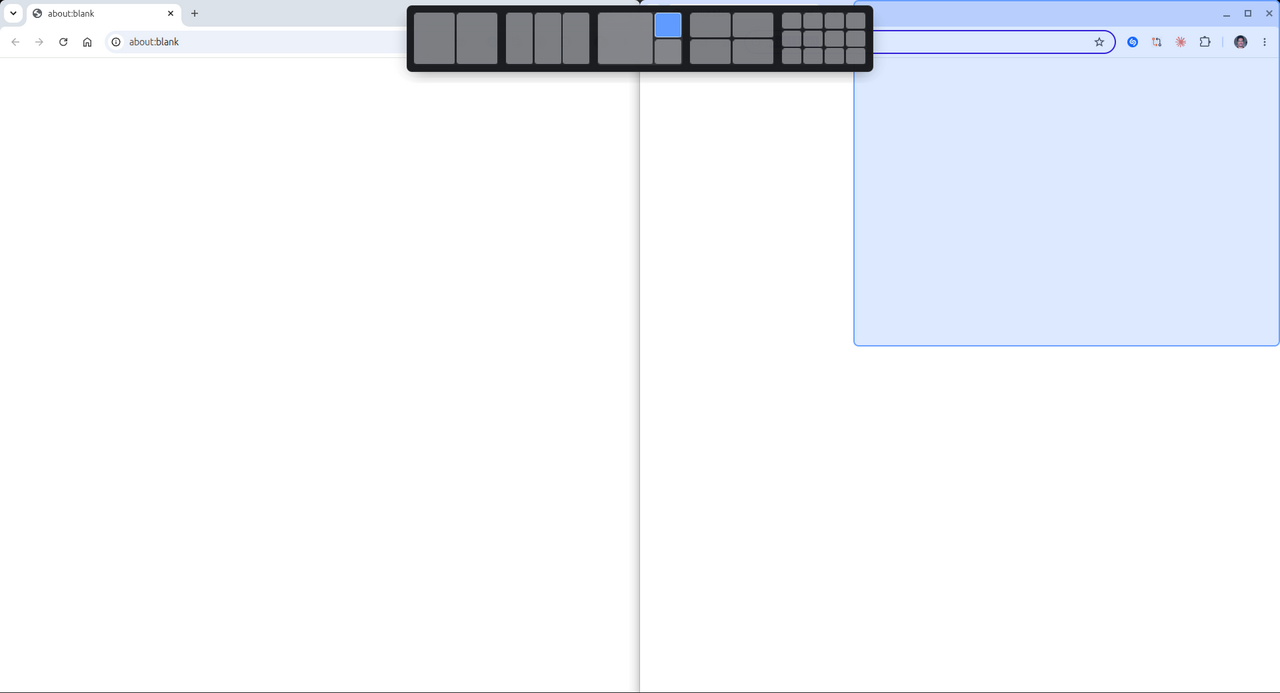
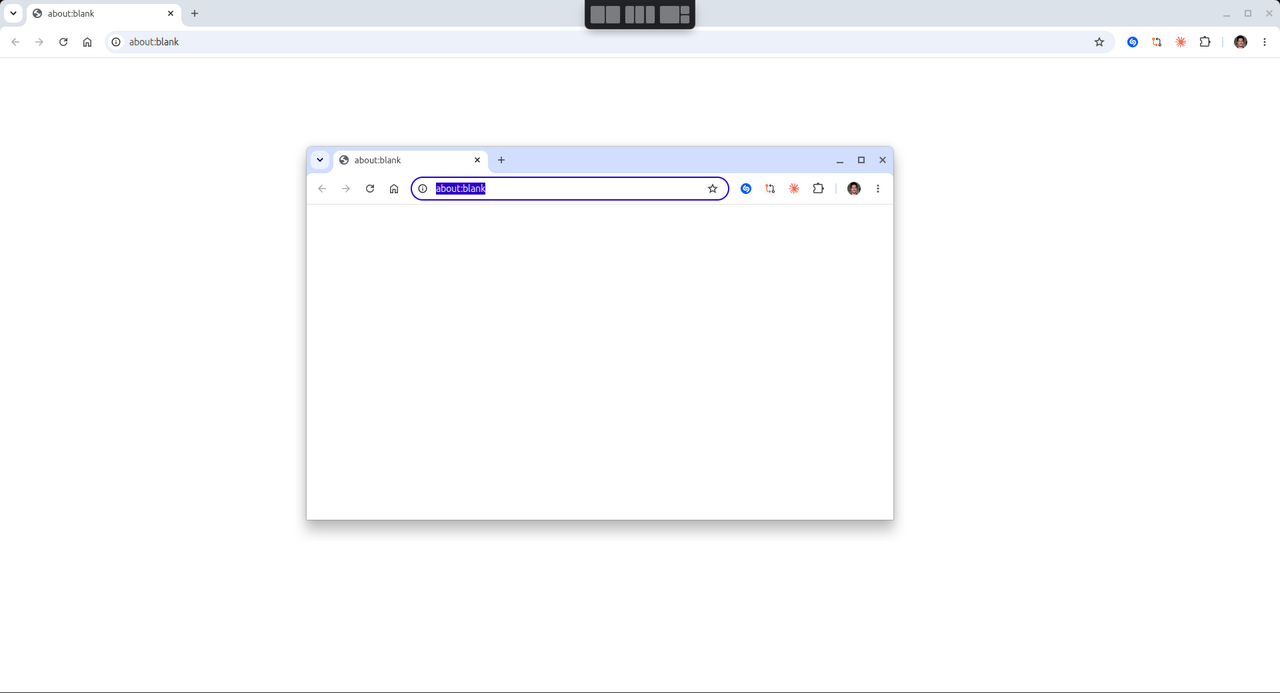
tilo@jeffreygbeho 0.5.0: show the layout tab as soon as a window is dragged
The picker only appeared once the pointer was already near the top edge, so it
was invisible to anyone who did not know it was there. A tab now hangs from the
top for the whole drag, showing three miniature layouts, and opens into the full
bar as the drag continues toward it.

Changed region(s): [[0.2188, 0.0, 1.0, 0.5152], [0.2188, 0.7273, 0.7188, 0.7879]]

diff --git a/tilo@jeffreygbeho/files/tilo@jeffreygbeho/lib/layoutPicker.js b/tilo@jeffreygbeho/files/tilo@jeffreygbeho/lib/layoutPicker.js
@@ -28,9 +28,20 @@ const THUMB_GAP = 10;
 const BAR_PAD = 10;
 const MINI_GAP = 3;
 
-/* The collapsed hint: a small handle, like a drawer pull. */
-const HINT_W = 96;
-const HINT_H = 8;
+/*
+ * The teaser: a tab that hangs from the top edge for the whole of a drag.
+ *
+ * This is the discovery surface, and the reason it exists is that every zone
+ * tool in this category hides behind a gesture nobody is told about. Showing a
+ * few miniature layouts the moment a window is picked up says what is available
+ * without a word of text, and costs nothing to ignore.
+ */
+const TEASER_THUMB_W = 46;
+const TEASER_THUMB_H = 28;
+const TEASER_GAP = 6;
+const TEASER_PAD = 8;
+const TEASER_COUNT = 3;
+const TEASER_MINI_GAP = 2;
 
 /* Fluent's published durations. Entrance is deliberately slower than exit. */
 const SHOW_MS = 250;
@@ -59,6 +70,10 @@ class LayoutPicker {
         this._bar.hide();
         Main.layoutManager.addChrome(this._bar, { affectsInputRegion: false });
 
+        this._teaser = new St.Widget({ style_class: 'tilo-teaser', reactive: false });
+        this._teaser.hide();
+        Main.layoutManager.addChrome(this._teaser, { affectsInputRegion: false });
+
         this._thumbs = [];
         this._minis = [];
     }
@@ -66,11 +81,13 @@ class LayoutPicker {
     destroy() {
         this._clearThumbs();
         if (this._bar) { this._bar.destroy(); this._bar = null; }
+        if (this._teaser) { this._teaser.destroy(); this._teaser = null; }
         if (this._ghost) { this._ghost.destroy(); this._ghost = null; }
     }
 
     get visible() { return this._state !== 'hidden'; }
     get expanded() { return this._state === 'expanded'; }
+    get teasing() { return this._state === 'teaser'; }
 
     /* Below this line the pointer has clearly left the bar. */
     get bottomEdge() { return (this._barY || 0) + (this._barH || 0) + 60; }
@@ -163,36 +180,88 @@ class LayoutPicker {
 
     /* ---------------------------------------------------------------- states */
 
-    showHint(workArea) {
+    _buildTeaser(workArea) {
+        this._teaser.destroy_all_children();
+
+        const layouts = Layouts.all().slice(0, TEASER_COUNT);
+        const width = layouts.length * TEASER_THUMB_W +
+                      (layouts.length - 1) * TEASER_GAP + 2 * TEASER_PAD;
+        const height = TEASER_THUMB_H + 2 * TEASER_PAD;
+
+        layouts.forEach((layout, i) => {
+            const thumb = new St.Widget({ style_class: 'tilo-teaser-thumb' });
+            thumb.set_position(TEASER_PAD + i * (TEASER_THUMB_W + TEASER_GAP), TEASER_PAD);
+            thumb.set_size(TEASER_THUMB_W, TEASER_THUMB_H);
+            this._teaser.add_child(thumb);
+
+            layout.zones.forEach(([fx, fy, fw, fh]) => {
+                const mini = new St.Widget({ style_class: 'tilo-teaser-mini' });
+                mini.set_position(Math.round(fx * TEASER_THUMB_W) + TEASER_MINI_GAP / 2,
+                                  Math.round(fy * TEASER_THUMB_H) + TEASER_MINI_GAP / 2);
+                mini.set_size(Math.max(1, Math.round(fw * TEASER_THUMB_W) - TEASER_MINI_GAP),
+                              Math.max(1, Math.round(fh * TEASER_THUMB_H) - TEASER_MINI_GAP));
+                thumb.add_child(mini);
+            });
+        });
+
+        this._teaserW = width;
+        this._teaserH = height;
+        this._teaserX = Math.round(workArea.x + (workArea.width - width) / 2);
+        this._teaserY = workArea.y;
+        this._teaser.set_size(width, height);
+    }
+
+    /* Shown for the whole drag, from the moment the window is picked up. */
+    showTeaser(workArea) {
         if (this._state !== 'hidden') return;
         this._build(workArea);
+        this._buildTeaser(workArea);
 
-        this._state = 'hint';
-        this._bar.remove_all_transitions();
-        this._bar.set_position(Math.round(this._workArea.x +
-                                          (this._workArea.width - HINT_W) / 2),
-                               this._workArea.y);
-        this._bar.set_size(HINT_W, HINT_H);
-        this._bar.opacity = 0;
-        this._bar.add_style_class_name('tilo-bar-hint');
-        this._thumbs.forEach(t => t.hide());
-        this._bar.show();
-        this._bar.ease({ opacity: 255, duration: SHOW_MS,
-                         mode: Clutter.AnimationMode.EASE_OUT_QUAD });
+        this._state = 'teaser';
+        this._teaser.remove_all_transitions();
+        this._teaser.set_position(this._teaserX, this._teaserY - this._teaserH);
+        this._teaser.opacity = 0;
+        this._teaser.show();
+        this._teaser.ease({ y: this._teaserY, opacity: 255, duration: SHOW_MS,
+                            mode: Clutter.AnimationMode.EASE_OUT_QUAD });
     }
 
     expand() {
-        if (this._state !== 'hint') return;
+        if (this._state !== 'teaser') return;
         this._state = 'expanded';
-        this._bar.remove_style_class_name('tilo-bar-hint');
-        this._thumbs.forEach(t => t.show());
+
+        this._teaser.remove_all_transitions();
+        this._teaser.ease({ opacity: 0, duration: HIDE_MS,
+                            mode: Clutter.AnimationMode.EASE_IN_QUAD,
+                            onComplete: () => { if (this._teaser) this._teaser.hide(); } });
+
         this._bar.remove_all_transitions();
-        this._bar.ease({
-            x: this._barX, y: this._barY,
-            width: this._barW, height: this._barH,
-            opacity: 255, duration: SHOW_MS,
-            mode: Clutter.AnimationMode.EASE_OUT_QUAD
-        });
+        this._bar.set_position(this._barX, this._barY - 10);
+        this._bar.set_size(this._barW, this._barH);
+        this._bar.opacity = 0;
+        this._bar.show();
+        this._bar.ease({ y: this._barY, opacity: 255, duration: SHOW_MS,
+                         mode: Clutter.AnimationMode.EASE_OUT_QUAD });
+    }
+
+    /* The pointer left the top of the screen but the drag is still going, so
+       fall back to the teaser rather than vanishing entirely. */
+    collapse() {
+        if (this._state !== 'expanded') return;
+        this._state = 'teaser';
+        this._setHovered(null);
+        this._hideGhost();
+
+        this._bar.remove_all_transitions();
+        this._bar.ease({ opacity: 0, duration: HIDE_MS,
+                         mode: Clutter.AnimationMode.EASE_IN_QUAD,
+                         onComplete: () => { if (this._bar) this._bar.hide(); } });
+
+        this._teaser.remove_all_transitions();
+        this._teaser.set_position(this._teaserX, this._teaserY);
+        this._teaser.show();
+        this._teaser.ease({ opacity: 255, duration: SHOW_MS,
+                            mode: Clutter.AnimationMode.EASE_OUT_QUAD });
     }
 
     /* Summoned by shortcut: straight to the expanded state, no hint stage. */
@@ -202,8 +271,6 @@ class LayoutPicker {
 
         this._state = 'expanded';
         this._bar.remove_all_transitions();
-        this._bar.remove_style_class_name('tilo-bar-hint');
-        this._thumbs.forEach(t => t.show());
         this._bar.set_position(this._barX, this._barY - 12);
         this._bar.set_size(this._barW, this._barH);
         this._bar.opacity = 0;
@@ -217,6 +284,13 @@ class LayoutPicker {
         this._state = 'hidden';
         this._setHovered(null);
         this._hideGhost();
+
+        this._teaser.remove_all_transitions();
+        this._teaser.ease({
+            opacity: 0, duration: HIDE_MS,
+            mode: Clutter.AnimationMode.EASE_IN_QUAD,
+            onComplete: () => { if (this._teaser) this._teaser.hide(); }
+        });
 
         this._bar.remove_all_transitions();
         this._bar.ease({
@@ -251,7 +325,7 @@ class LayoutPicker {
         if (this._state === 'hidden') return false;
         const r = this._state === 'expanded'
             ? { x: this._barX, y: this._barY, width: this._barW, height: this._barH }
-            : { x: this._barX, y: this._barY, width: this._barW, height: THUMB_H };
+            : { x: this._teaserX, y: this._teaserY, width: this._teaserW, height: this._teaserH };
         return Geometry.contains(r, x, y);
     }
 

diff --git a/tilo@jeffreygbeho/files/tilo@jeffreygbeho/extension.js b/tilo@jeffreygbeho/files/tilo@jeffreygbeho/extension.js
@@ -95,6 +95,7 @@ class Tilo {
         });
 
         this._drag = new DragWatcher({
+            onDragStart: w => this._onDragStart(w),
             onDragMove: (w, x, y) => this._onDragMove(w, x, y),
             onDragEnd: (w, x, y) => this._onDragEnd(w, x, y),
             onResizeEnd: (w, from, to) => this._onResizeEnd(w, from, to)
@@ -190,32 +191,36 @@ class Tilo {
 
     /* ------------------------------------------------------ drag to the top */
 
-    _onDragMove(window, x, y) {
+    /*
+     * The tab appears as soon as a window is picked up, wherever the pointer
+     * is. Waiting until it neared the top edge meant the feature only ever
+     * found people who already knew it was there.
+     */
+    _onDragStart(window) {
         if (!this.dragToTop || !WindowMover.isTileable(window)) return;
+        this._picker.showTeaser(Geometry.workAreaFor(window));
+    }
+
+    _onDragMove(window, x, y) {
+        if (!this._picker.visible) return;
 
         const workArea = Geometry.workAreaFor(window);
         const depth = y - workArea.y;
-        const expandBand = this.revealThreshold;
-        const hintBand = expandBand * 2;
 
         if (this._picker.expanded) {
             this._picker.updatePointer(x, y);
             if (!this._picker.containsPointer(x, y) && y > this._picker.bottomEdge) {
-                this._picker.hide();
+                this._picker.collapse();
             }
             return;
         }
 
-        if (this._picker.visible) {
-            if (depth <= expandBand) this._picker.expand();
-            else if (depth > hintBand) this._picker.hide();
-            return;
-        }
-
+        /* Only the middle of the top edge opens the bar, so dragging a window
+           into a top corner still means "corner", as it does everywhere else. */
         const centerLeft = workArea.x + workArea.width * CENTER_BAND;
         const centerRight = workArea.x + workArea.width * (1 - CENTER_BAND);
-        if (depth <= hintBand && x >= centerLeft && x <= centerRight) {
-            this._picker.showHint(workArea);
+        if (depth <= this.revealThreshold && x >= centerLeft && x <= centerRight) {
+            this._picker.expand();
         }
     }
 

diff --git a/tilo@jeffreygbeho/files/tilo@jeffreygbeho/stylesheet.css b/tilo@jeffreygbeho/files/tilo@jeffreygbeho/stylesheet.css
@@ -18,12 +18,27 @@
     box-shadow: 0 10px 32px rgba(0, 0, 0, 0.55);
 }
 
-/* The collapsed hint reads as a drawer pull, not a panel. */
-.tilo-bar-hint {
-    background-color: rgba(24, 25, 28, 0.97);
-    border: none;
-    border-radius: 0 0 6px 6px;
-    box-shadow: 0 4px 14px rgba(0, 0, 0, 0.5);
+/*
+ * The teaser hangs from the top edge for the whole drag. Square at the top so
+ * it reads as attached to the screen edge rather than floating, and quieter
+ * than the bar it leads to, because it is an offer and not a demand.
+ */
+.tilo-teaser {
+    background-color: rgba(24, 25, 28, 0.94);
+    border: 1px solid rgba(255, 255, 255, 0.10);
+    border-top: none;
+    border-radius: 0 0 8px 8px;
+    box-shadow: 0 6px 18px rgba(0, 0, 0, 0.45);
+}
+
+.tilo-teaser-thumb {
+    background-color: rgba(255, 255, 255, 0.04);
+    border-radius: 4px;
+}
+
+.tilo-teaser-mini {
+    background-color: rgba(236, 239, 245, 0.42);
+    border-radius: 2px;
 }
 
 /* One thumbnail is one miniature of the whole screen. */

diff --git a/tilo@jeffreygbeho/files/tilo@jeffreygbeho/lib/dragWatcher.js b/tilo@jeffreygbeho/files/tilo@jeffreygbeho/lib/dragWatcher.js
@@ -27,6 +27,7 @@ const RESIZE_OPS = Object.keys(Meta.GrabOp)
 
 class DragWatcher {
     /* handlers: {
+     *   onDragStart(window),
      *   onDragMove(window, x, y),
      *   onDragEnd(window, x, y),
      *   onResizeEnd(window, startRect, endRect)
@@ -99,6 +100,15 @@ class DragWatcher {
         this._window = window;
         this._startPolling();
         Logger.debug(`drag started on "${window.get_title()}"`);
+
+        /*
+         * Announced at the start rather than when the pointer nears an edge.
+         * The picker only used to appear once you were already 48px from the
+         * top, which meant nobody found out it existed unless they happened to
+         * drag a window up there. Telling you at the moment you pick a window
+         * up is the whole point.
+         */
+        if (this._handlers.onDragStart) this._handlers.onDragStart(window);
     }
 
     _onGrabEnd(args) {

diff --git a/tilo@jeffreygbeho/CHANGELOG.md b/tilo@jeffreygbeho/CHANGELOG.md
@@ -1,3 +1,9 @@
+### 0.5.0
+
+* The layout tab now appears as soon as a window is picked up, anywhere on
+  screen, rather than only once the pointer nears the top edge. The feature was
+  invisible to anyone who did not already know it was there.
+
 ### 0.4.0
 
 * Snap bar when dragging a window to the top of the screen, and the same picker
